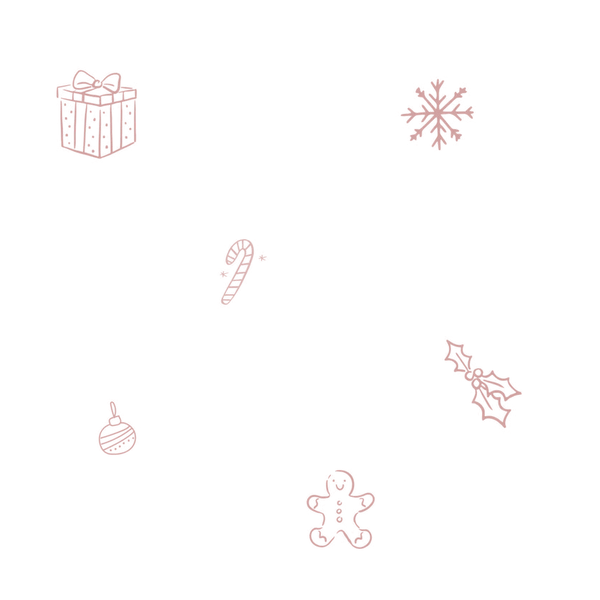
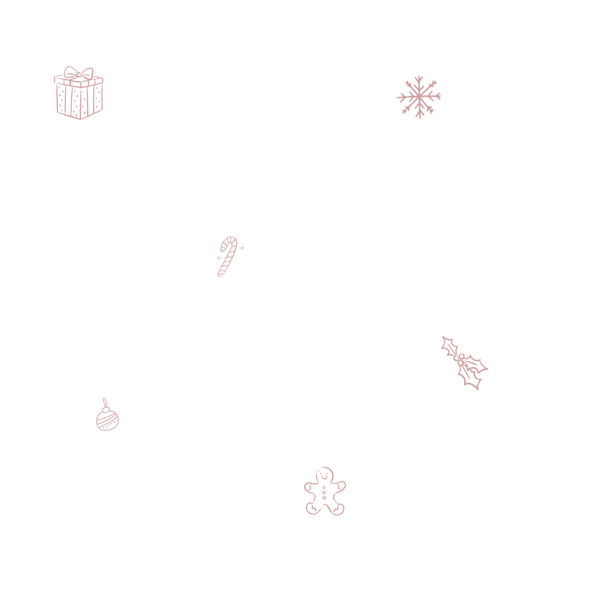
Stop the background pattern being sliced at section edges
Three bands down the homepage were tints laid over the page rather than
solid colours — the gradient under the mascots, the Instagram strip, the
trust strip. The seasonal pattern showed up through them and was then cut
in half by the opaque curve that divides each band from the next, so a
present would appear with its bottom sliced off. It read as a bug, because
it looked like one.

Each band is now the solid colour it already rendered as over cream, so
nothing changes on screen in or out of season, but the pattern stays behind
the band instead of ghosting through it. Edges are now clean: the pattern
either runs or it does not.

The drawings are smaller too. A background is always clipped by whatever
sits on top of it, so the remaining edges — a card, the footer — will
always cut one eventually; at this size that reads as a pattern continuing
underneath something rather than as a broken present.

diff --git a/components/home/Hero.tsx b/components/home/Hero.tsx
@@ -9,7 +9,7 @@ import { getServerDictionary } from "@/lib/i18n/server";
 export async function Hero() {
   const { dict: t } = await getServerDictionary();
   return (
-    <section className="relative overflow-hidden bg-gradient-to-b from-beige to-tan/60">
+    <section className="relative overflow-hidden bg-gradient-to-b from-beige to-[#e5d6bc]">
       {/* Very light, decorative clouds and flowers — a soft kid-friendly texture, not focal content. */}
       <Cloud className="pointer-events-none absolute left-[8%] top-10 h-auto w-28 opacity-40 sm:w-36" />
       <Cloud className="animate-float-slow-reverse pointer-events-none absolute right-[18%] top-6 h-auto w-20 opacity-30 sm:w-28" />

diff --git a/components/home/InstagramFeed.tsx b/components/home/InstagramFeed.tsx
@@ -10,7 +10,7 @@ export async function InstagramFeed() {
   const { dict: t } = await getServerDictionary();
   const instagramPosts = await getInstagramPosts();
   return (
-    <section className="relative overflow-hidden bg-beige/60 py-16">
+    <section className="relative overflow-hidden bg-[#f2e7d3] py-16">
       <SectionDecorations variant="clouds" />
       <Container className="relative">
         <div className="flex flex-wrap items-end justify-between gap-4">

diff --git a/components/home/BrandTrust.tsx b/components/home/BrandTrust.tsx
@@ -13,7 +13,7 @@ const LOGO_SRC: Record<string, string | undefined> = {
 export async function BrandTrust() {
   const { dict: t } = await getServerDictionary();
   return (
-    <section className="relative overflow-hidden bg-sage/10 py-16">
+    <section className="relative overflow-hidden bg-[#ebe9db] py-16">
       <SectionDecorations variant="clouds" />
       <Container className="relative">
         <SectionHeading

diff --git a/scripts/build-christmas-pattern.py b/scripts/build-christmas-pattern.py
@@ -50,7 +50,12 @@ MOTIFS = {
     "gingerbread": (63, 255, 175, 385),
 }
 
-SCALE = 0.72
+# Small on purpose. The pattern lies under sections that paint their own
+# background — a tinted band, a curved divider, a card — and a background is
+# always clipped by whatever sits on top of it. At full size that clip lands
+# mid-drawing and reads as a broken present; at this size a drawing caught by
+# an edge reads as what it is, a pattern continuing underneath something.
+SCALE = 0.44
 TILE = 600
 
 # Placed by hand on an irregular scatter: no two drawings share a height or a
